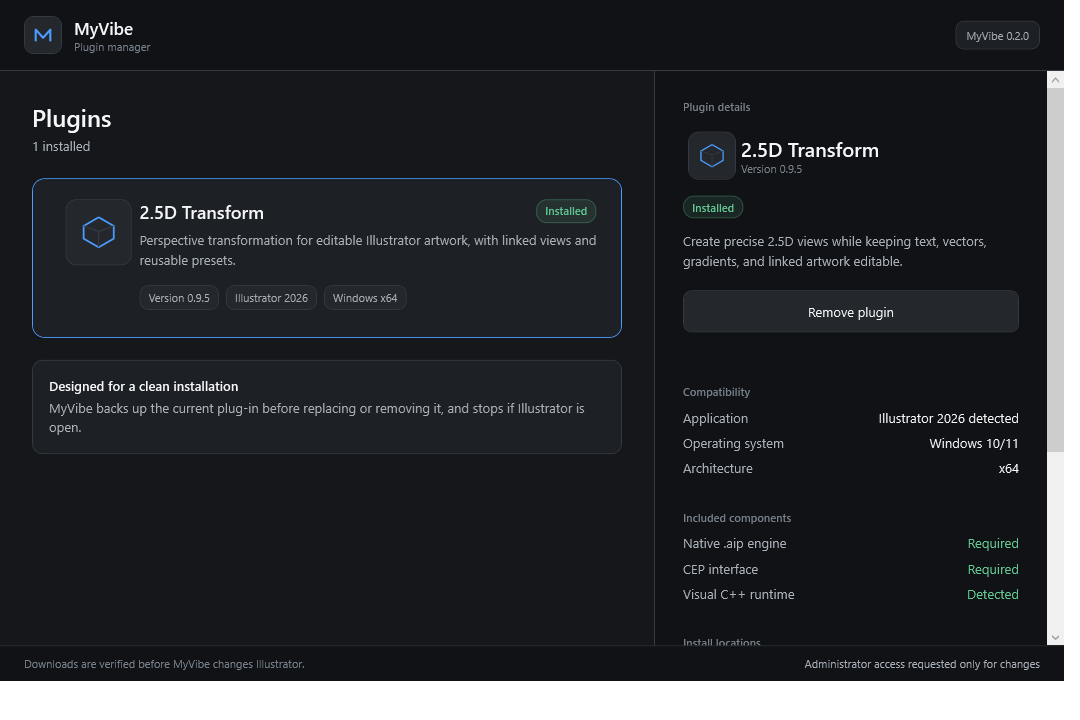
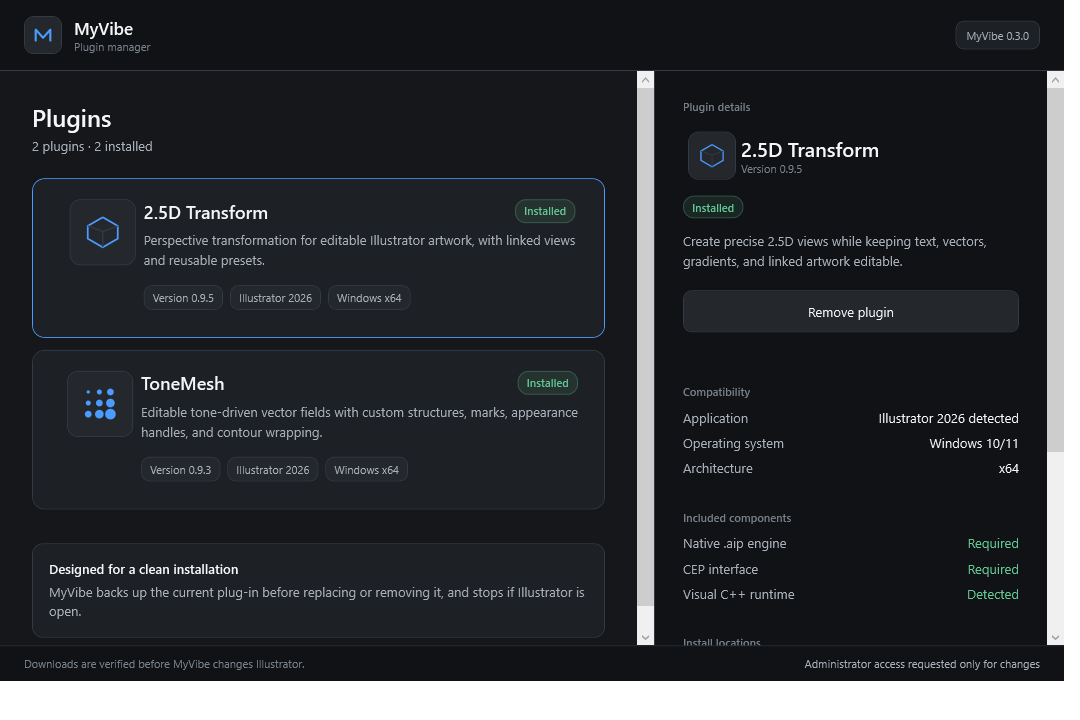
Release MyVibe 0.3.0 beta (#3)

diff --git a/docs/USER-GUIDE.md b/docs/USER-GUIDE.md
@@ -1,8 +1,8 @@
-# MyVibe and 2.5D Transform user guide
+# MyVibe plugin manager and 2.5D Transform user guide
 
-This guide explains how to install, update, remove, and recover **2.5D Transform** with **MyVibe**, then use the plug-in inside Adobe Illustrator.
+This guide explains how to install, update, remove, and recover **2.5D Transform** and **ToneMesh** with **MyVibe**, then covers the complete 2.5D Transform workflow inside Adobe Illustrator.
 
-> Current beta compatibility: Windows 10 or Windows 11, x64; Adobe Illustrator 2026, version 30.x; MyVibe 0.2.0; 2.5D Transform 0.9.5.
+> Current beta compatibility: Windows 10 or Windows 11, x64; Adobe Illustrator 2026, version 30.x; MyVibe 0.3.0; 2.5D Transform 0.9.5; ToneMesh 0.9.3.
 
 [Download the PDF edition](MyVibe-and-2.5D-Transform-User-Guide.pdf)
 
@@ -11,7 +11,7 @@ This guide explains how to install, update, remove, and recover **2.5D Transform
 1. [What you are installing](#1-what-you-are-installing)
 2. [Before you begin](#2-before-you-begin)
 3. [Download and verify MyVibe](#3-download-and-verify-myvibe)
-4. [Install 2.5D Transform](#4-install-25d-transform)
+4. [Install a plugin](#4-install-a-plugin)
 5. [Open the plug-in in Illustrator](#5-open-the-plug-in-in-illustrator)
 6. [Create your first 2.5D transformation](#6-create-your-first-25d-transformation)
 7. [Work with multiple objects](#7-work-with-multiple-objects)
@@ -26,12 +26,14 @@ This guide explains how to install, update, remove, and recover **2.5D Transform
 
 ## 1. What you are installing
 
-MyVibe is a Windows manager for creative plug-ins. It installs both parts required by 2.5D Transform:
+MyVibe is a Windows manager for creative plug-ins. It installs both parts required by 2.5D Transform and ToneMesh:
 
 - The native `.aip` engine that performs the Illustrator transformation.
 - The CEP interface that provides the main panel and Linked Groups panel.
 
 2.5D Transform adds live X, Y, Z, and perspective controls for editable Illustrator artwork. It supports paths, compound paths, Pathfinder results, groups, clipping groups, live text, symbols, gradients, raster images, and placed images.
+
+ToneMesh creates editable tone-driven vector fields from solid fills, gradients, and mesh gradients. It includes multiple structures and marks, custom marks, appearance handles, and contour-aware edge behavior.
 
 MyVibe creates a backup before it installs, updates, or removes the plug-in. If an operation fails, it attempts to restore the previous copy.
 
@@ -77,18 +79,18 @@ Get-FileHash -Algorithm SHA256 -LiteralPath .\MyVibe.exe
 
 Compare the displayed hash with the `MyVibe.exe` value in `SHA256SUMS.txt`. The values must match exactly.
 
-## 4. Install 2.5D Transform
+## 4. Install a plugin
 
 1. Close Adobe Illustrator.
 2. Run `MyVibe.exe`.
-3. Select the **2.5D Transform** card.
+3. Select the **2.5D Transform** or **ToneMesh** card.
 4. Review the detail panel. Confirm that Illustrator 2026 and the Visual C++ runtime are detected.
 5. Select **Install plugin**.
 6. Approve the Windows administrator prompt. MyVibe requests elevated access only when it changes the Illustrator installation.
 7. Wait for the success message. Do not open Illustrator while installation is in progress.
 8. Start Illustrator after MyVibe confirms that installation is complete.
 
-MyVibe installs the native engine and CEP interface together. Avoid manually mixing files from different releases.
+MyVibe installs the selected native engine and CEP interface together. 2.5D Transform can be installed from the bundled offline payload; ToneMesh requires the verified online catalog. Avoid manually mixing files from different releases.
 
 ## 5. Open the plug-in in Illustrator
 
@@ -99,6 +101,10 @@ Open the main panel from:
 Open the companion panel from:
 
 **Window > Extensions > 2.5D Transform: Linked Groups**
+
+Open ToneMesh from:
+
+**Window > Extensions > ToneMesh**
 
 You can dock either panel with your other Illustrator panels and resize it. The controls reflow as the panel becomes wider or narrower.
 
@@ -230,10 +236,10 @@ MyVibe contacts GitHub only when it checks the public catalog or downloads an up
 2. Select **Check for updates**.
 3. Review any available MyVibe or plug-in version.
 
-### Update 2.5D Transform
+### Update a plugin
 
 1. Save your work and close Illustrator.
-2. Select **Update to [version]** when MyVibe offers a plug-in update.
+2. Select the plugin card, then select **Update to [version]** when MyVibe offers an update.
 3. Approve the administrator prompt.
 4. Restart Illustrator after the update completes.
 
@@ -248,7 +254,7 @@ Open **Version history** to see restorable manager versions. A restorable entry 
 ## 13. Remove the plug-in
 
 1. Save your Illustrator documents and close Illustrator.
-2. Open MyVibe and select **2.5D Transform**.
+2. Open MyVibe and select the plugin you want to remove.
 3. Select **Remove plugin**.
 4. Read the confirmation, then select the removal action.
 5. Approve the administrator prompt.
@@ -256,7 +262,7 @@ Open **Version history** to see restorable manager versions. A restorable entry 
 
 MyVibe backs up the current native engine and CEP interface before removal. Backups are stored under:
 
-`%LOCALAPPDATA%\MyVibe\backups\2.5D Transform`
+`%LOCALAPPDATA%\MyVibe\backups\<plugin name>`
 
 ## 14. Troubleshooting
 
@@ -306,8 +312,9 @@ MyVibe normally restores the previous copy. Read the complete message, keep Illu
 
 | Goal | Action |
 | --- | --- |
-| Install the plug-in | Close Illustrator, open MyVibe, select 2.5D Transform, select Install plugin |
+| Install a plug-in | Close Illustrator, open MyVibe, select its card, select Install plugin |
 | Open the main panel | Window > Extensions > 2.5D Transform |
+| Open ToneMesh | Window > Extensions > ToneMesh |
 | Open linked-group management | Window > Extensions > 2.5D Transform: Linked Groups |
 | Reuse a view without a relationship | Copy view, select other artwork, Paste view |
 | Keep objects synchronized | Select two or more objects, Link selection |

diff --git a/README.md b/README.md
@@ -18,7 +18,10 @@
 
 MyVibe shows compatible plug-ins, their installed and available versions, and the applications they support. Installation and removal create a backup first and stop safely when Adobe Illustrator is open.
 
-The first available plug-in is **2.5D Transform**, a non-destructive X/Y/Z and perspective workflow for editable Illustrator artwork.
+MyVibe currently manages two plug-ins independently:
+
+- **2.5D Transform** — non-destructive X/Y/Z and perspective workflows for editable Illustrator artwork.
+- **ToneMesh** — editable tone-driven vector fields with custom marks, structures, appearance handles, and contour wrapping.
 
 ## Download
 
@@ -28,7 +31,7 @@ Open [Releases](https://github.com/badrulmokhtar/myvibe/releases) and download t
 
 ## User guide
 
-Follow the complete [MyVibe and 2.5D Transform user guide](docs/USER-GUIDE.md) for installation, first use, presets, linked groups, updates, removal, recovery, and troubleshooting.
+Follow the [MyVibe user guide](docs/USER-GUIDE.md) for installation, updates, removal, recovery, and the complete 2.5D Transform workflow.
 
 Prefer a printable edition? [Download the PDF user guide](docs/MyVibe-and-2.5D-Transform-User-Guide.pdf).
 
@@ -38,14 +41,16 @@ Prefer a printable edition? [Download the PDF user guide](docs/MyVibe-and-2.5D-T
 | --- | --- |
 | Operating system | Windows 10/11 x64 |
 | Adobe application | Illustrator 2026, version 30.x |
-| MyVibe | 0.2.0 beta |
+| MyVibe | 0.3.0 beta |
 | 2.5D Transform | 0.9.5 beta |
+| ToneMesh | 0.9.3 beta |
 
-MyVibe reads the public [`catalog.json`](catalog.json), verifies package checksums, and retains the last valid catalog for offline use.
+MyVibe verifies [`catalog.json`](catalog.json) against [`catalog.json.sig`](catalog.json.sig), verifies package checksums, and retains the last verified catalog for offline use.
 
 ## Trust and privacy
 
 - Release assets include SHA-256 checksums.
+- Catalog metadata is signed independently from GitHub hosting.
 - Stable Windows assets must carry a trusted Authenticode signature.
 - CEP panels are packaged with Adobe's signing tool.
 - No account, telemetry, advertising, or background service is required.

diff --git a/CHANGELOG.md b/CHANGELOG.md
@@ -2,6 +2,22 @@
 
 All notable public changes are documented here. Releases follow semantic versioning.
 
+## [0.3.0] - 2026-08-15
+
+### Added
+
+- ToneMesh 0.9.3 as the second independently managed Illustrator plugin.
+- In-app MyVibe updates with backup, health verification, restart, and rollback.
+- Signed catalog verification using the public key embedded in MyVibe 0.3.0.
+- Separate install, update, repair, removal, version state, backup, and CEP cache handling for each plugin.
+
+### Security
+
+- Restricted downloads to the official `badrulmokhtar/myvibe` GitHub release path.
+- Re-authorized plugin packages from the signed catalog inside elevated installation.
+- Added traversal-safe, size-bounded archive extraction and required signed CEP payloads.
+- MyVibe and native AIP binaries remain unsigned during beta and can trigger Windows warnings.
+
 ## [0.2.0] - 2026-08-12
 
 ### Added

diff --git a/SECURITY.md b/SECURITY.md
@@ -10,7 +10,7 @@ Do not disclose a vulnerability in a public issue. Use GitHub's private vulnerab
 
 ## Release integrity
 
-Compare downloads with the SHA-256 digest shown in the GitHub Release and catalog. Stable Windows releases must also have a valid trusted Authenticode signature. A checksum mismatch means the file must not be run.
+Compare downloads with the SHA-256 digest shown in the GitHub Release and catalog. MyVibe 0.3.0 also verifies `catalog.json.sig` before trusting catalog metadata. Stable Windows releases must have a valid trusted Authenticode signature. Beta Windows binaries are not publicly trusted and can show an Unknown publisher warning. A checksum mismatch means the file must not be run.
 
 ## Data handling
 
